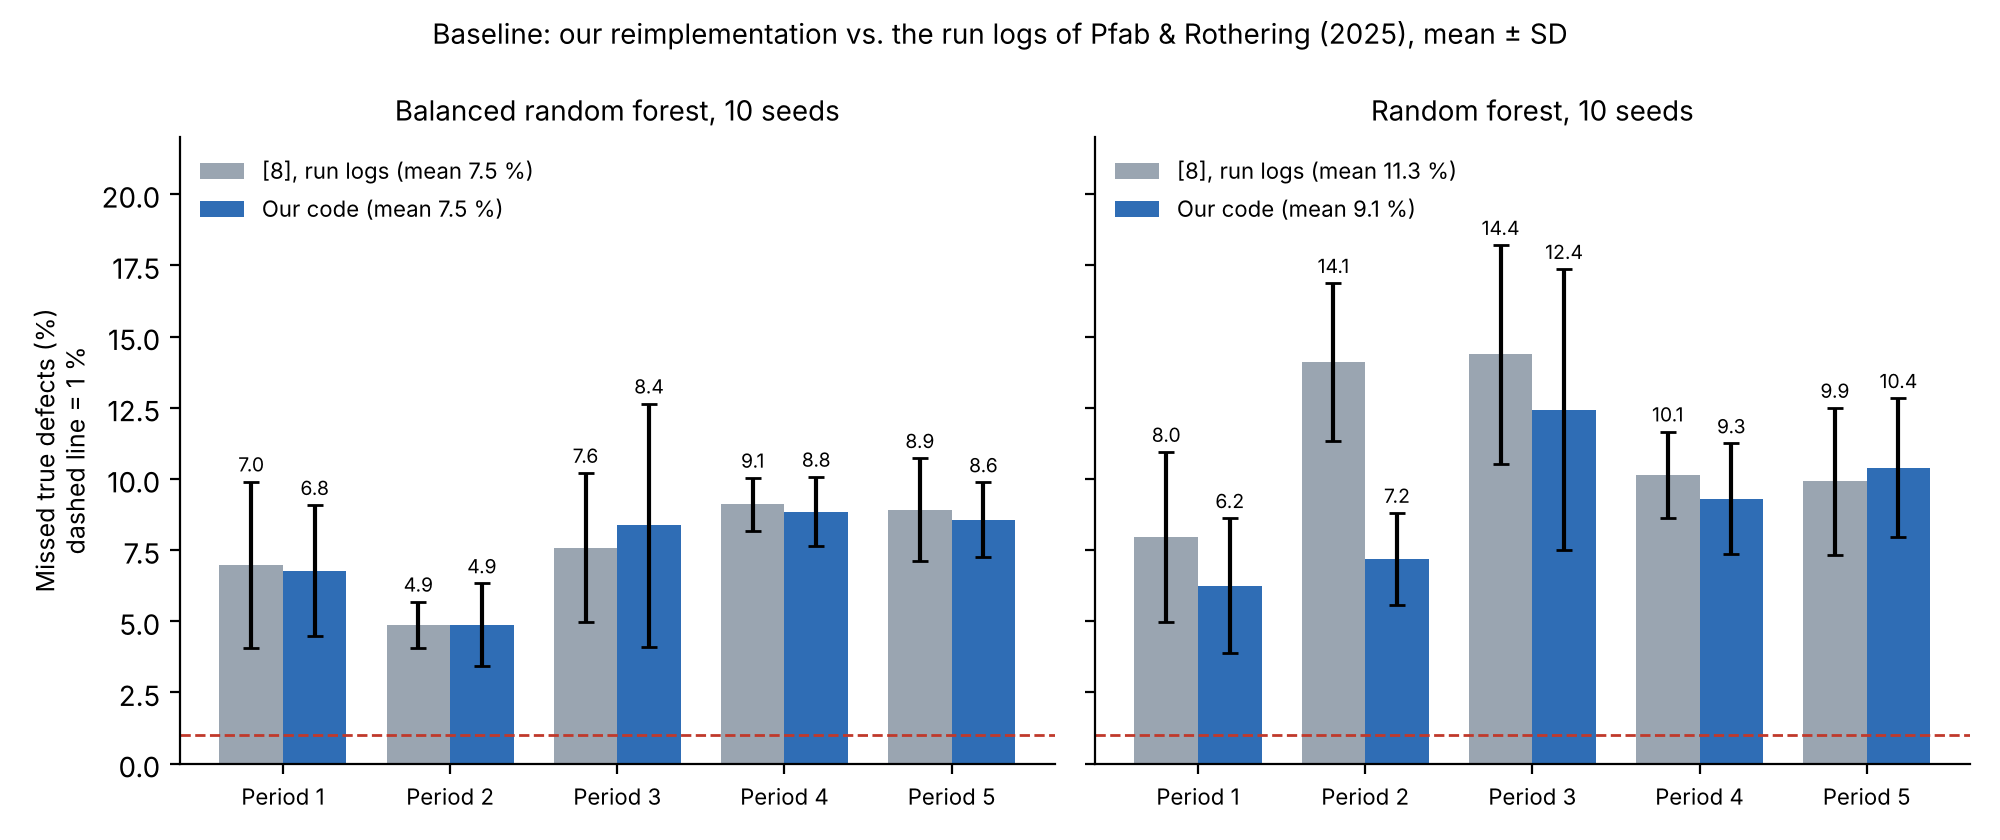
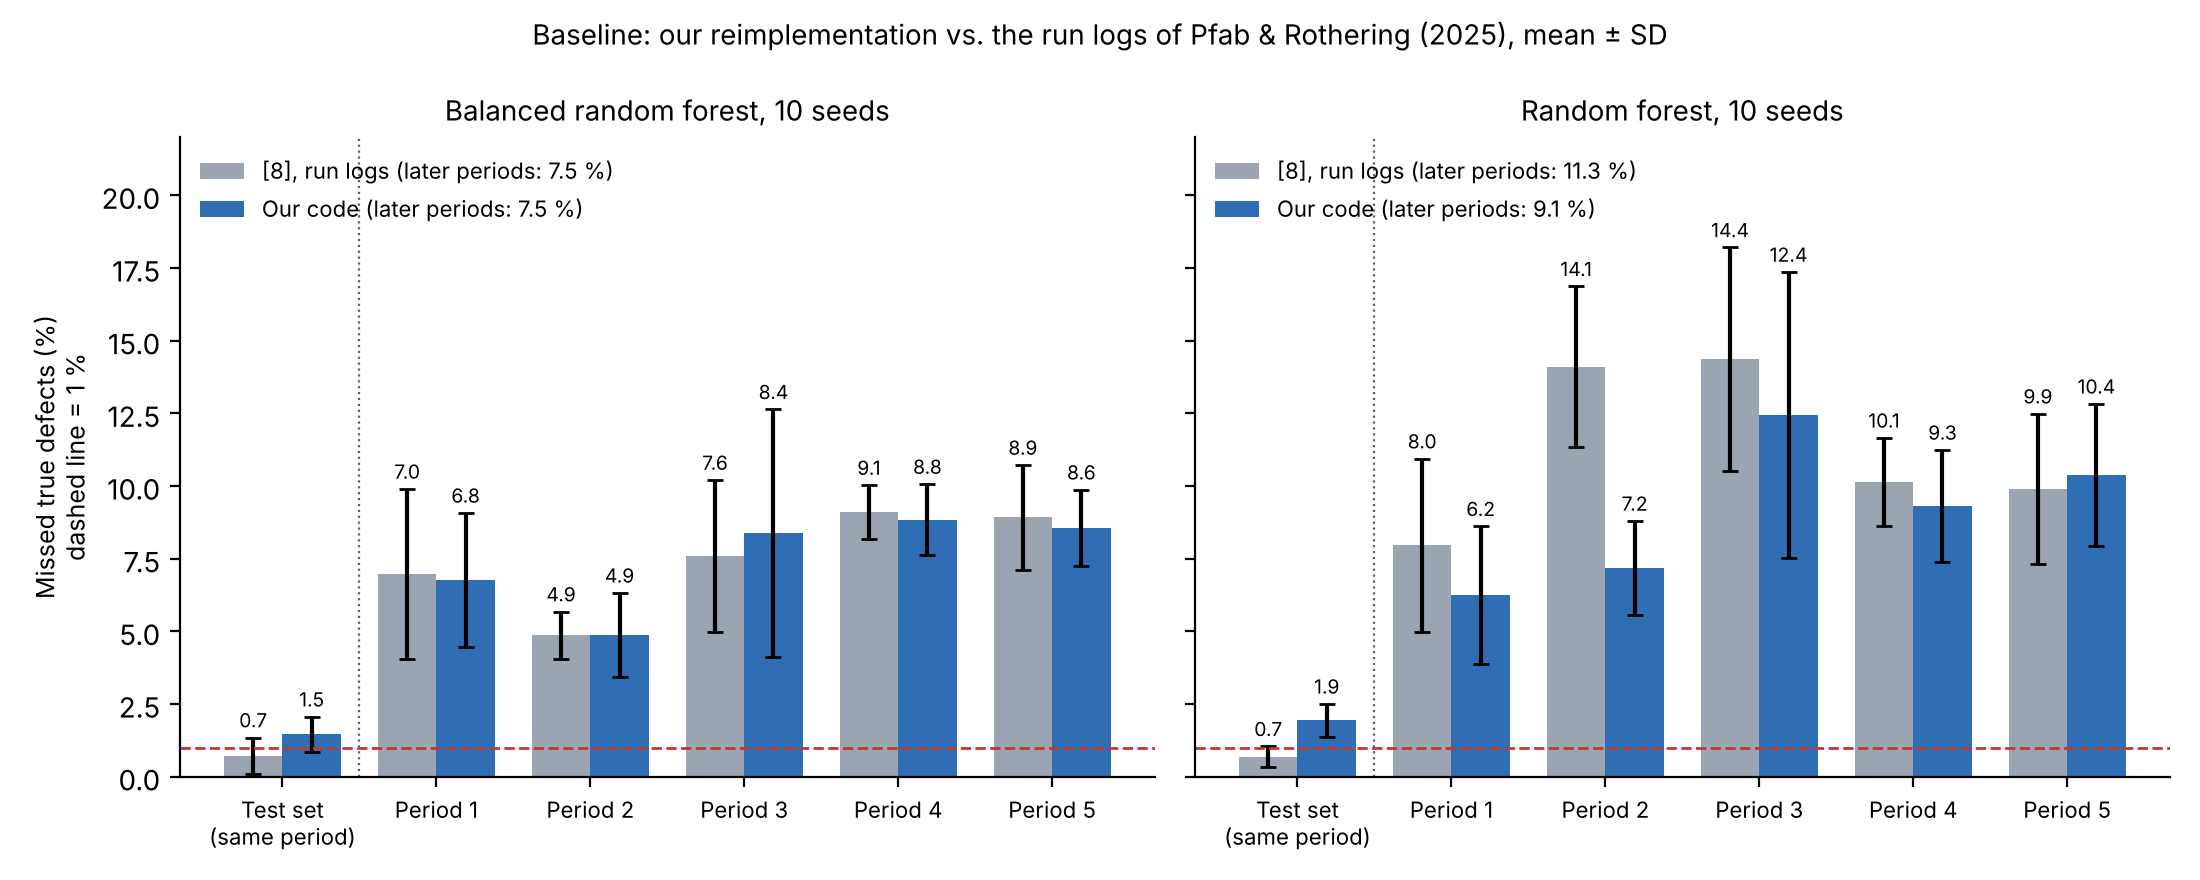
P2 baseline figure: add the test set of the same period (#36)

diff --git a/scripts/make_p2_figures.py b/scripts/make_p2_figures.py
@@ -76,24 +76,26 @@ def replication():
 
 
 def reproduction():
-    """Baseline only: results logged by Pfab & Rothering (2025) vs. our reimplementation, per later period."""
+    """Baseline only: results logged by Pfab & Rothering (2025) vs. our reimplementation,
+    on the test set of the same period and on the 5 later periods."""
     r = json.loads(Path("results/replication_pfab2025.json").read_text())
-    fig, axs = plt.subplots(1, 2, figsize=(10, 4.2), sharey=True)
-    x = np.arange(1, 6)
+    fig, axs = plt.subplots(1, 2, figsize=(11, 4.4), sharey=True)
+    x = np.arange(6)
     w = 0.38
     for ax, (m, name) in zip(axs, [("BRFC", "Balanced random forest"), ("RFC", "Random forest")]):
         v = r[m]
-        paper = 100 * np.array([z["paper"]["slices_slip"] for z in v])
-        ours = 100 * np.array([[s["slip"] for s in z["paper_exact"]] for z in v])
+        paper = 100 * np.array([[z["paper"]["test_slip"]] + list(z["paper"]["slices_slip"]) for z in v])
+        ours = 100 * np.array([[z["paper_exact_test"]["slip"]] + [s["slip"] for s in z["paper_exact"]] for z in v])
         b1 = ax.bar(x - w / 2, paper.mean(0), w, yerr=paper.std(0, ddof=1), capsize=3, color=GREY,
-                    label=f"[8], run logs (mean {paper.mean():.1f} %)")
+                    label=f"[8], run logs (later periods: {paper[:, 1:].mean():.1f} %)")
         b2 = ax.bar(x + w / 2, ours.mean(0), w, yerr=ours.std(0, ddof=1), capsize=3, color=BLUE,
-                    label=f"Our code (mean {ours.mean():.1f} %)")
+                    label=f"Our code (later periods: {ours[:, 1:].mean():.1f} %)")
         ax.bar_label(b1, [f"{t:.1f}" for t in paper.mean(0)], fontsize=7, padding=2)
         ax.bar_label(b2, [f"{t:.1f}" for t in ours.mean(0)], fontsize=7, padding=2)
         ax.axhline(1, color=RED, ls="--", lw=1)
+        ax.axvline(0.5, color="#555F6D", lw=0.8, ls=":")
         ax.set_title(f"{name}, 10 seeds", fontsize=10)
-        ax.set_xticks(x, [f"Period {i}" for i in x], fontsize=8)
+        ax.set_xticks(x, ["Test set\n(same period)"] + [f"Period {i}" for i in range(1, 6)], fontsize=8)
         ax.legend(frameon=False, fontsize=8, loc="upper left")
         ax.spines[["top", "right"]].set_visible(False)
     axs[0].set_ylabel("Missed true defects (%)\ndashed line = 1 %", fontsize=9)
